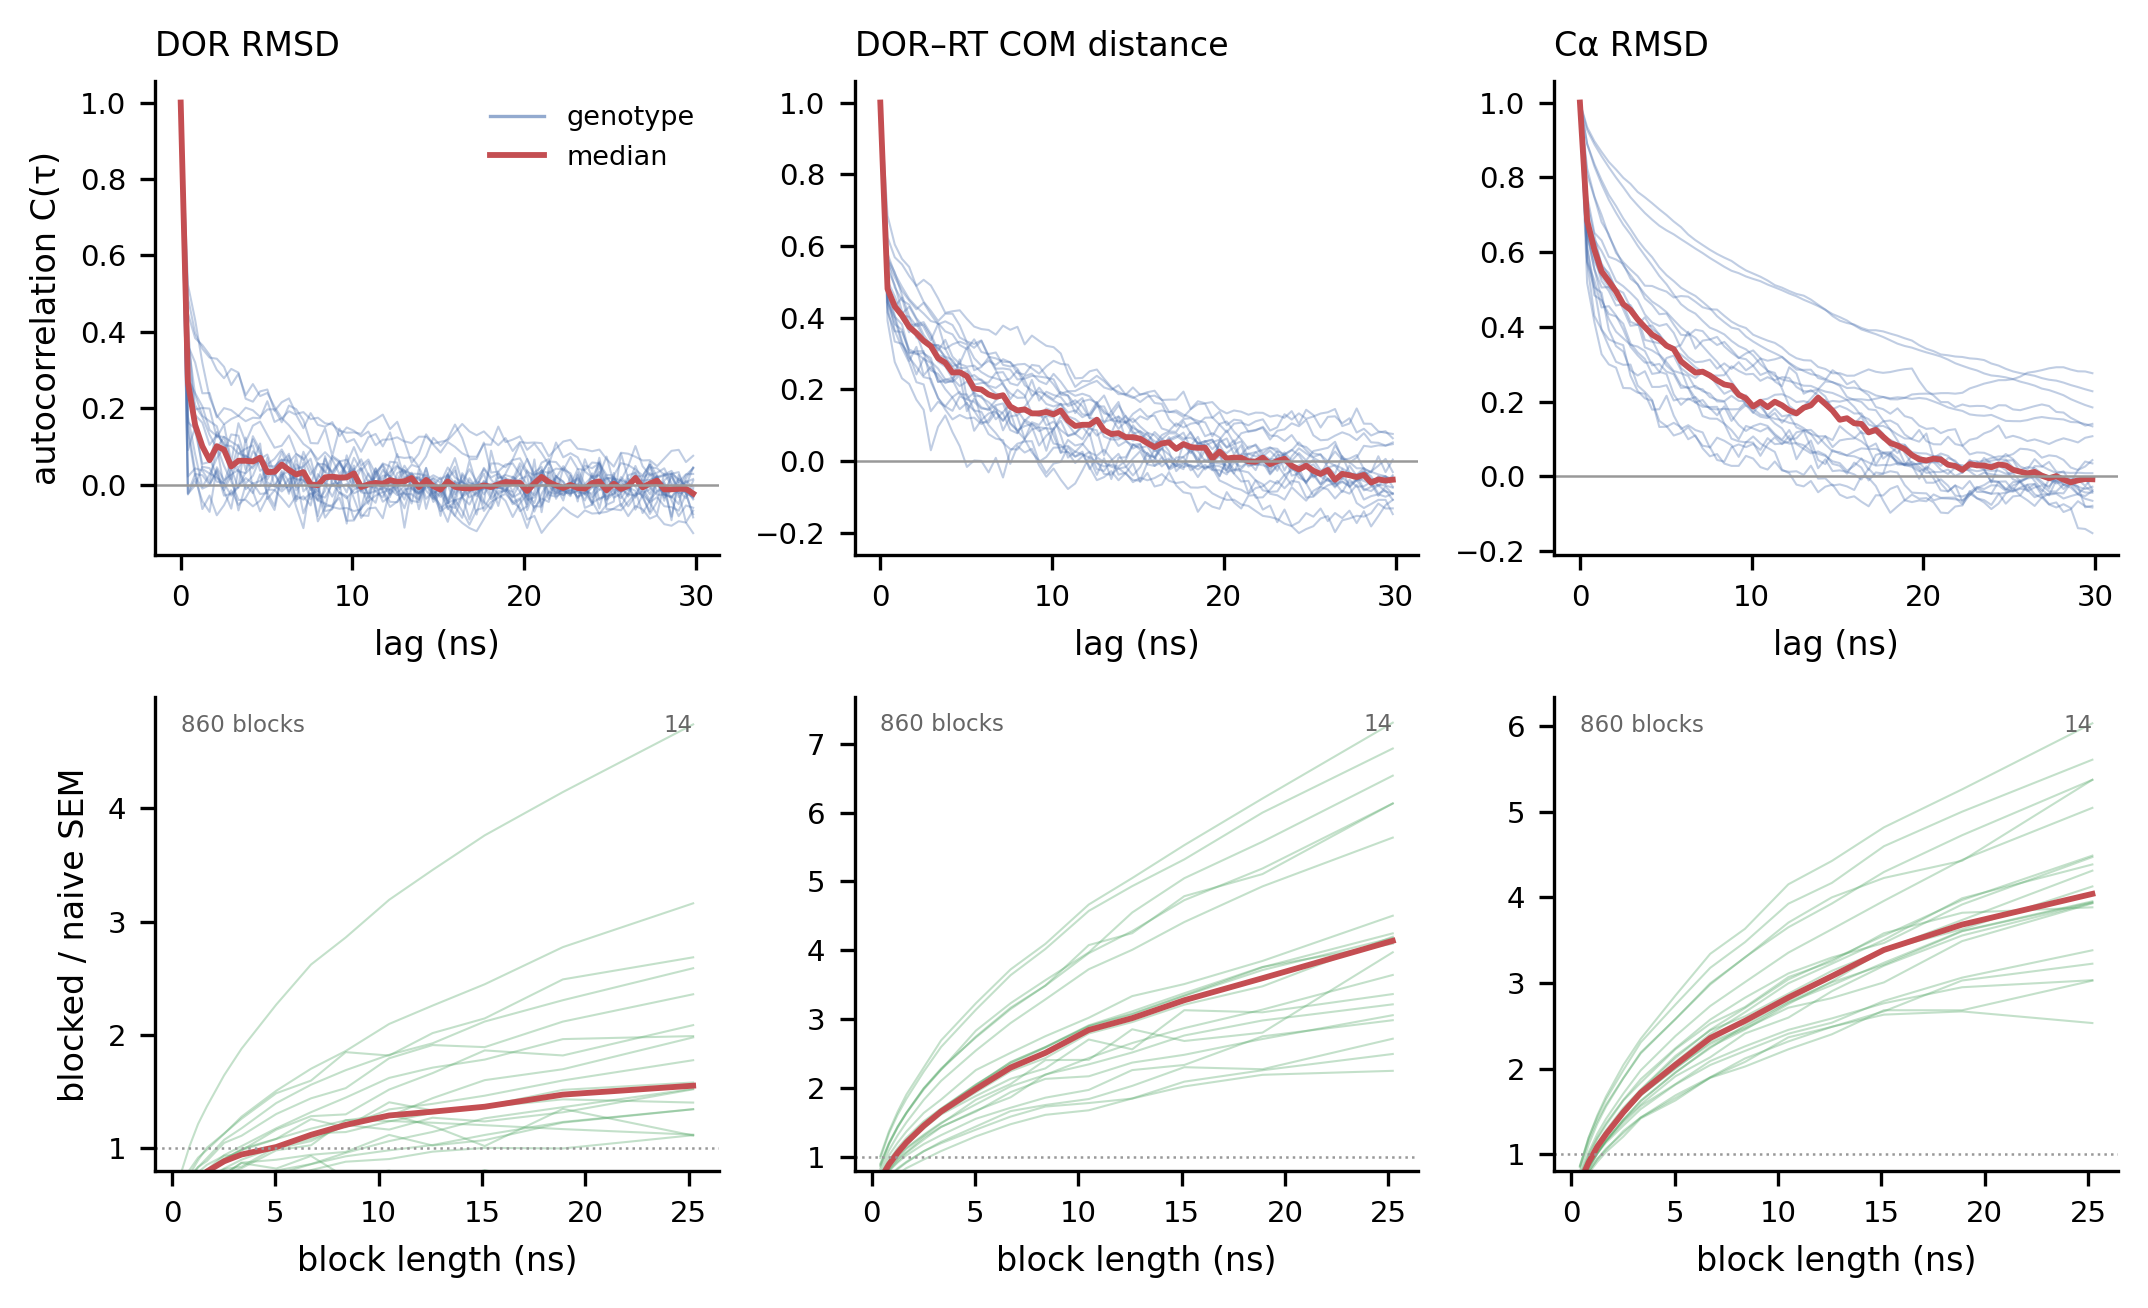
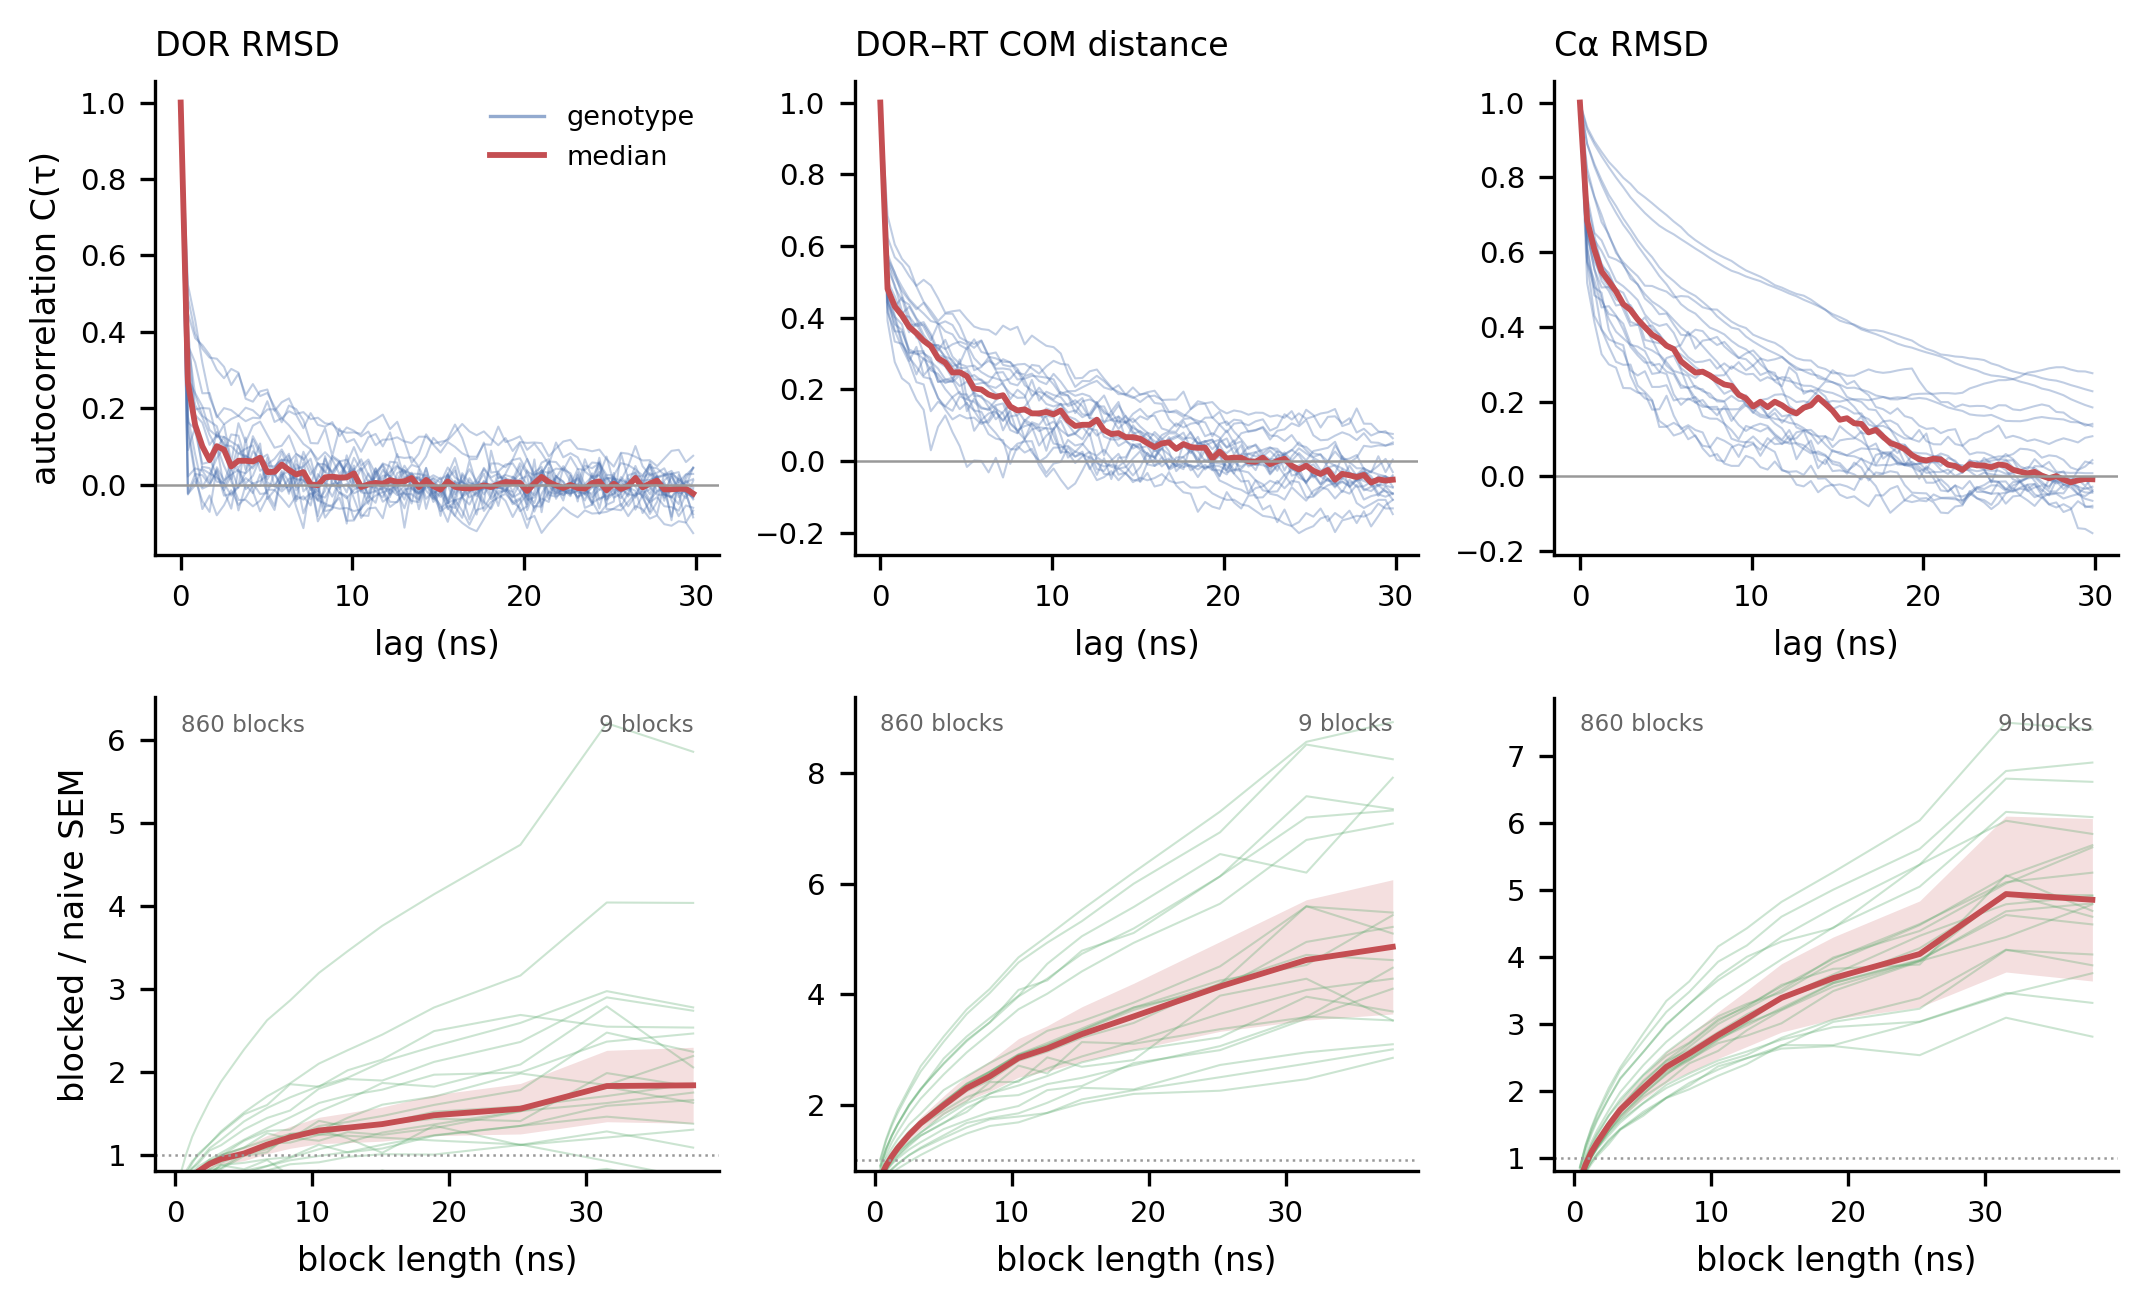
Block averaging out to 38 ns with its own uncertainty; the curves do plateau
Calling the standard error of three blocks meaningless was wrong. It is a
valid estimator, just imprecise: the relative uncertainty on an estimated
standard deviation from M blocks is about 1/sqrt(2(M-1)), so 71% at M = 3,
35% at 9 and 28% at 14. The answer is to draw that uncertainty, not to
truncate the curve, and pooling the three replicates suppresses it exactly as
expected.

Blocks now run to 90 frames, about 38 ns, past the Ca RMSD decay, and the
median carries a band of 1/sqrt(2(M-1)). The earlier conclusion that nothing
plateaus was an artefact of stopping at 7.5 ns:

  DOR RMSD            1.6, 1.8, 1.8  at 25, 32, 38 ns   flat
  DOR-RT COM          4.1, 4.6, 4.9                     flattening
  Ca RMSD             4.0, 4.9, 4.9  at 25, 32, 38 ns   flat

So all three do level off, each once the block exceeds its own correlation
time, which is what the autocorrelation panel predicts. The statistical
inefficiency is about 3 frames for DOR RMSD and about 24 for the COM distance
and Ca RMSD, so a 180-frame replicate holds roughly 60 independent samples of
the ligand pose and roughly 8 of the protein-global coordinates.

diff --git a/src/nnrti/cli/plot_supplementary_figures.py b/src/nnrti/cli/plot_supplementary_figures.py
@@ -29,8 +29,8 @@ APO_CRYSTAL = (101.7, 103.8)
 #: once a block is longer than that. At 60 frames (~25 ns) this still leaves
 #: only 9 blocks, so the far end of the curve stays noisy by construction --
 #: the trajectories are not long enough for it to be otherwise.
-MIN_BLOCKS = 9
-BLOCKS = [1, 2, 3, 4, 6, 8, 12, 16, 20, 25, 30, 36, 45, 60]
+MIN_BLOCKS = 6
+BLOCKS = [1, 2, 3, 4, 6, 8, 12, 16, 20, 25, 30, 36, 45, 60, 75, 90]
 
 METRIC_LABEL = {
     "chl_ring_burial": "chlorocyanophenyl burial",
@@ -152,8 +152,15 @@ def figure3(plt, out: Path) -> None:
         bl = np.array(BLOCKS) * dt
         B = np.vstack(list(blk_by_g.values()))
         for row in B:
-            a_blk.plot(bl, row, color="#55A868", lw=0.5, alpha=0.35)
-        a_blk.plot(bl, np.median(B, axis=0), color="#C44E52", lw=1.4)
+            a_blk.plot(bl, row, color="#55A868", lw=0.5, alpha=0.3)
+        med = np.median(B, axis=0)
+        a_blk.plot(bl, med, color="#C44E52", lw=1.4)
+        # The estimated standard deviation of M blocks carries a relative
+        # uncertainty of about 1/sqrt(2(M-1)). Drawing it keeps the long-block
+        # end of the curve honest rather than simply truncating it.
+        rel = np.array([1.0 / np.sqrt(2 * max(m - 1, 1)) for m in n_blocks])
+        a_blk.fill_between(bl, med * (1 - rel), med * (1 + rel),
+                           color="#C44E52", alpha=0.18, lw=0)
         a_blk.axhline(1.0, color="0.6", lw=0.6, ls=":")
         a_blk.set_xlabel("block length (ns)")
         if j == 0:
@@ -162,8 +169,9 @@ def figure3(plt, out: Path) -> None:
         # say how many blocks each end of the curve rests on
         a_blk.text(bl[0], a_blk.get_ylim()[1] * 0.97, f"{n_blocks[0]} blocks",
                    fontsize=5.5, color="0.4", va="top")
-        a_blk.text(bl[-1], a_blk.get_ylim()[1] * 0.97, f"{n_blocks[-1]}",
-                   fontsize=5.5, color="0.4", va="top", ha="right")
+        a_blk.text(bl[-1], a_blk.get_ylim()[1] * 0.97,
+                   f"{n_blocks[-1]} blocks", fontsize=5.5, color="0.4",
+                   va="top", ha="right")
 
     axes[0, 0].plot([], [], color="#4C72B0", lw=0.8, alpha=0.6, label="genotype")
     axes[0, 0].plot([], [], color="#C44E52", lw=1.4, label="median")
